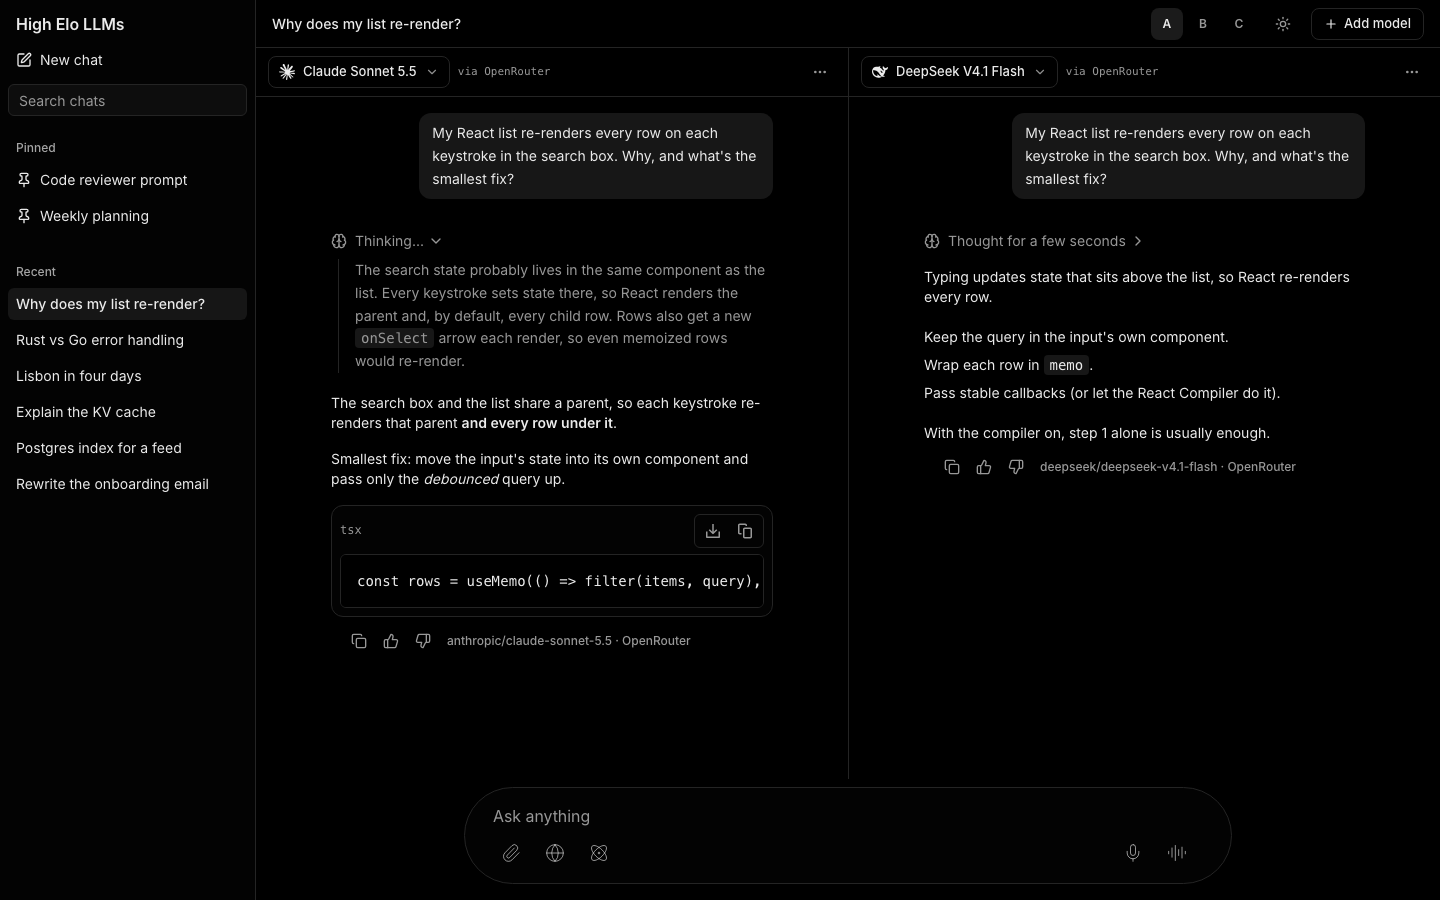
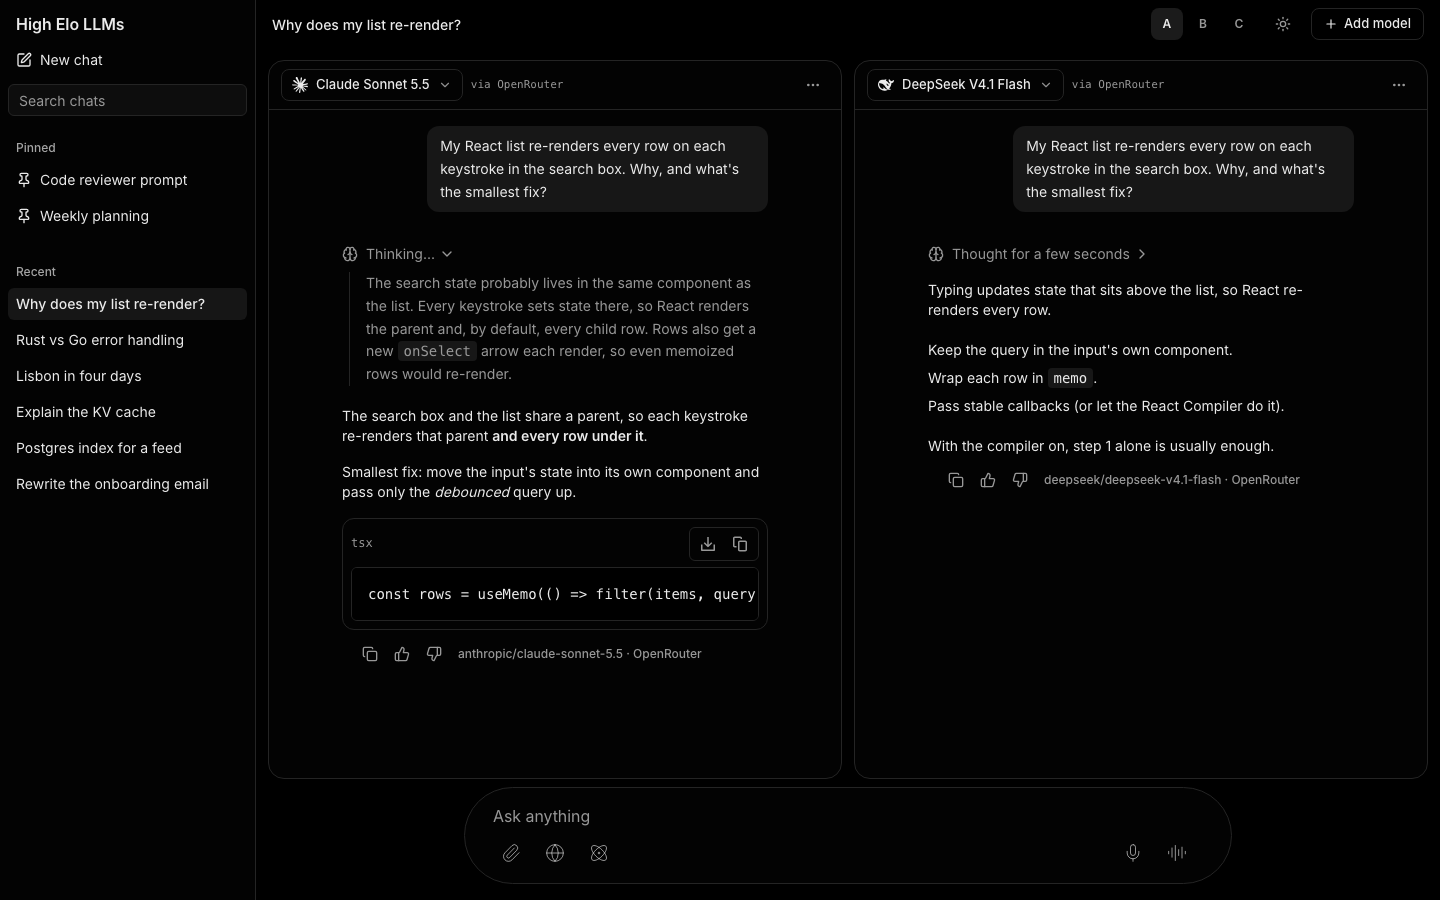
docs: pick direction A with rounded pane cards (roadmap 3.0)
Direction A's panes become rounded cards (B's shape, no blur or glow). The roadmap ticks 3.0
with the pick and adds 3.11 appearance settings: fonts, text size and every color are tokens a
user can override.

diff --git a/src/routes/e2e/design/-shared/minimal.css b/src/routes/e2e/design/-shared/minimal.css
@@ -1,6 +1,7 @@
 /*
   Direction A: minimal dark, close to the Vercel AI SDK playground. Neutral grays, no hue at all, white
-  as the only "accent", hairline dividers instead of cards, model ids in mono. Dark is the default.
+  as the only "accent", model ids in mono. Dark is the default. Panes are rounded cards (taken from B, without
+  B's glass blur or glow), on a background a step darker than the cards.
 */
 
 [data-design="minimal"] {
@@ -8,6 +9,7 @@
 		"Geist", "Inter", ui-sans-serif, system-ui, -apple-system, sans-serif;
 	--design-font-display: var(--design-font-sans);
 	--design-composer-shadow: 0 1px 2px rgb(0 0 0 / 0.06);
+	--design-main-bg: oklch(0.985 0 0);
 
 	--radius: 0.5rem;
 	--background: oklch(1 0 0);
@@ -39,10 +41,11 @@
 
 [data-design="minimal"].dark {
 	--design-composer-shadow: none;
+	--design-main-bg: oklch(0 0 0);
 
 	--background: oklch(0 0 0);
 	--foreground: oklch(0.94 0 0);
-	--card: oklch(0.145 0 0);
+	--card: oklch(0.1 0 0);
 	--card-foreground: oklch(0.94 0 0);
 	--popover: oklch(0.145 0 0);
 	--popover-foreground: oklch(0.94 0 0);
@@ -68,13 +71,20 @@
 	--design-composer-bg: oklch(0.1 0 0);
 }
 
-[data-design="minimal"] .design-topbar,
 [data-design="minimal"] .design-pane-header {
 	border-bottom: 1px solid var(--border);
 }
 
-[data-design="minimal"] .design-pane + .design-pane {
-	border-left: 1px solid var(--border);
+[data-design="minimal"] .design-panes {
+	--design-pane-gap: 0.75rem;
+	padding: 0.75rem 0.75rem 0;
+}
+
+[data-design="minimal"] .design-pane {
+	background: var(--card);
+	border: 1px solid var(--border);
+	border-radius: calc(var(--radius) + 0.5rem);
+	overflow: hidden;
 }
 
 [data-design="minimal"] .design-model-trigger {

diff --git a/docs/design-directions.md b/docs/design-directions.md
@@ -27,7 +27,8 @@ this).
 
 | | Light | Dark (default) |
 |---|---|---|
-| Background | white `oklch(1 0 0)` | black `oklch(0 0 0)` |
+| Background | `oklch(0.985 0 0)` | black `oklch(0 0 0)` |
+| Panes | white cards, 1px line, radius 1rem | `oklch(0.1 0 0)` cards, 1px line, radius 1rem |
 | Sidebar | `oklch(0.985 0 0)` | `oklch(0.1 0 0)` |
 | Text / muted | `oklch(0.205 0 0)` / `oklch(0.556 0 0)` | `oklch(0.94 0 0)` / `oklch(0.68 0 0)` |
 | Lines | `oklch(0.922 0 0)` | `oklch(0.26 0 0)` |
@@ -36,7 +37,10 @@ this).
 Type: Geist if installed, else Inter / the system sans; model ids and "via OpenRouter" in the system mono.
 Radius 0.5rem.
 
-Feels like a tool. Zero hue, hairline dividers instead of cards, bordered model triggers and mono labels, so
+*Updated after the pick:* the panes are now rounded cards (B's shape, without its glass blur or glow) on a
+background a step darker than the cards. The screenshots show this version.
+
+Feels like a tool. Zero hue, flat surfaces, bordered model triggers and mono labels, so
 the models' answers are the only thing with weight on the screen. It's the closest to the Vercel AI SDK
 playground and will scale cleanly to four narrow panes. The cost is identity: nothing here says "High Elo LLMs",
 and next to the landing page's magenta shader it reads like a different product.
@@ -84,7 +88,13 @@ side. It's the most distinctive of the three and the calmest. It's also the furt
 and the usual "AI tool" look, the serif gets cramped at four narrow panes, and it has no motion personality of
 its own beyond the composer.
 
-## Recommendation
+## Decision (2026-10-28)
+
+**Yash picked A, with B's rounded pane cards.** Minimal and neutral, dark by default. The look should be
+built entirely on tokens (colors, fonts, text sizes, radii), because appearance settings (roadmap 3.11) will
+let people change fonts, text size and the colors of everything.
+
+## Recommendation (before the pick)
 
 **A's structure with B's brand on top.** Build the panes the way A does (hairline dividers, flat surfaces, no
 glass), dark by default, and take from B: magenta as the one accent (primary buttons, the active chat, focus

diff --git a/docs/ROADMAP.md b/docs/ROADMAP.md
@@ -428,10 +428,13 @@ Each milestone is deployable and demo-able on its own, so the portfolio piece is
 
 ## Phase 3: Multi-pane playground (the signature feature)
 
-- [ ] **3.0 Design direction.** Pick a look for the app before the panes are built: three throwaway prototypes
+- [x] **3.0 Design direction.** Pick a look for the app before the panes are built: three throwaway prototypes
   under `/e2e/design/` (A minimal dark, B brand, C editorial), compared in
   [design-directions.md](design-directions.md). Done when Yash picks one (or a mix); a follow-up slice applies it
   to the real tokens and components.
+  *Status:* Picked A (minimal, neutral, dark default) with B's rounded pane cards
+  ([#32](https://github.com/tigeryash/ai-chat-tanstack/pull/32)). Build it on tokens so 3.11 can make all of it
+  user-adjustable.
 - [ ] **3.1 Pane layout.** 1–4 resizable panes (`react-resizable-panels`), add/remove/reorder with `LayoutGroup`.
 - [ ] **3.2 Synced composers + Stop** (decisions 16 and 18). Per-pane composer with a "Synced" toggle and mirrored
   input, the "diverged" badge, and the Stop behavior.
@@ -449,6 +452,10 @@ Each milestone is deployable and demo-able on its own, so the portfolio piece is
   "✓ Done") while the tab is in the background. Browser notifications when a reply or agent run finishes or needs
   approval and the tab is hidden. Ask for notification permission only when the user first starts something long,
   never on page load. On/off per event type in settings.
+- [ ] **3.11 Appearance settings.** Make the look as personal as possible: fonts (UI, reading, code), text size
+  and density, light/dark/system, and the colors of everything, starting from the 3.0 look as the default theme.
+  Every color, font and radius comes from a token, so a setting only overrides tokens (no per-component styling).
+  Saved on the device like other settings; presets, plus import/export of a theme.
 
 ## Phase 4: Agent harness
 
